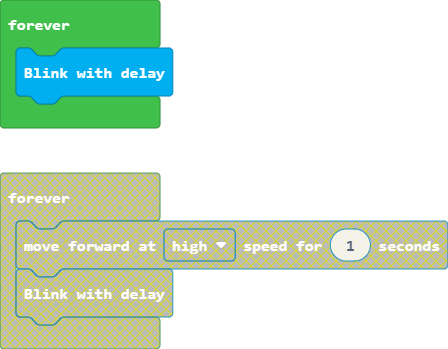
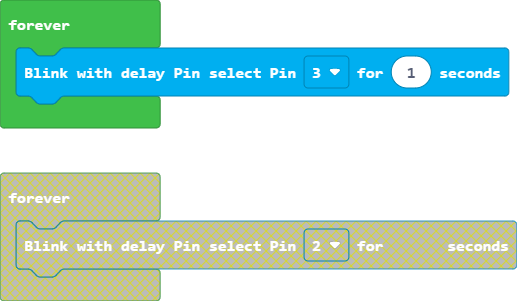
Update main.blocks, custom.ts

diff --git a/custom.ts b/custom.ts
@@ -15,7 +15,7 @@ enum pin {
     Low,
     //% block="Pin 3"
     Medium,
-    //% block="Pin 3"
+    //% block="Pin 4"
     High
 }
 
@@ -26,7 +26,7 @@ namespace EnginoBit {
       * @param x pin
       * @param duration value (seconds), eg: 1 second
       */
-    //% block="Blink with delay"
+    //% block="Blink with delay Pin select $x for $duration seconds"
     export function led_on_for_duration(x: pin, duration: number): void {
     }
 
